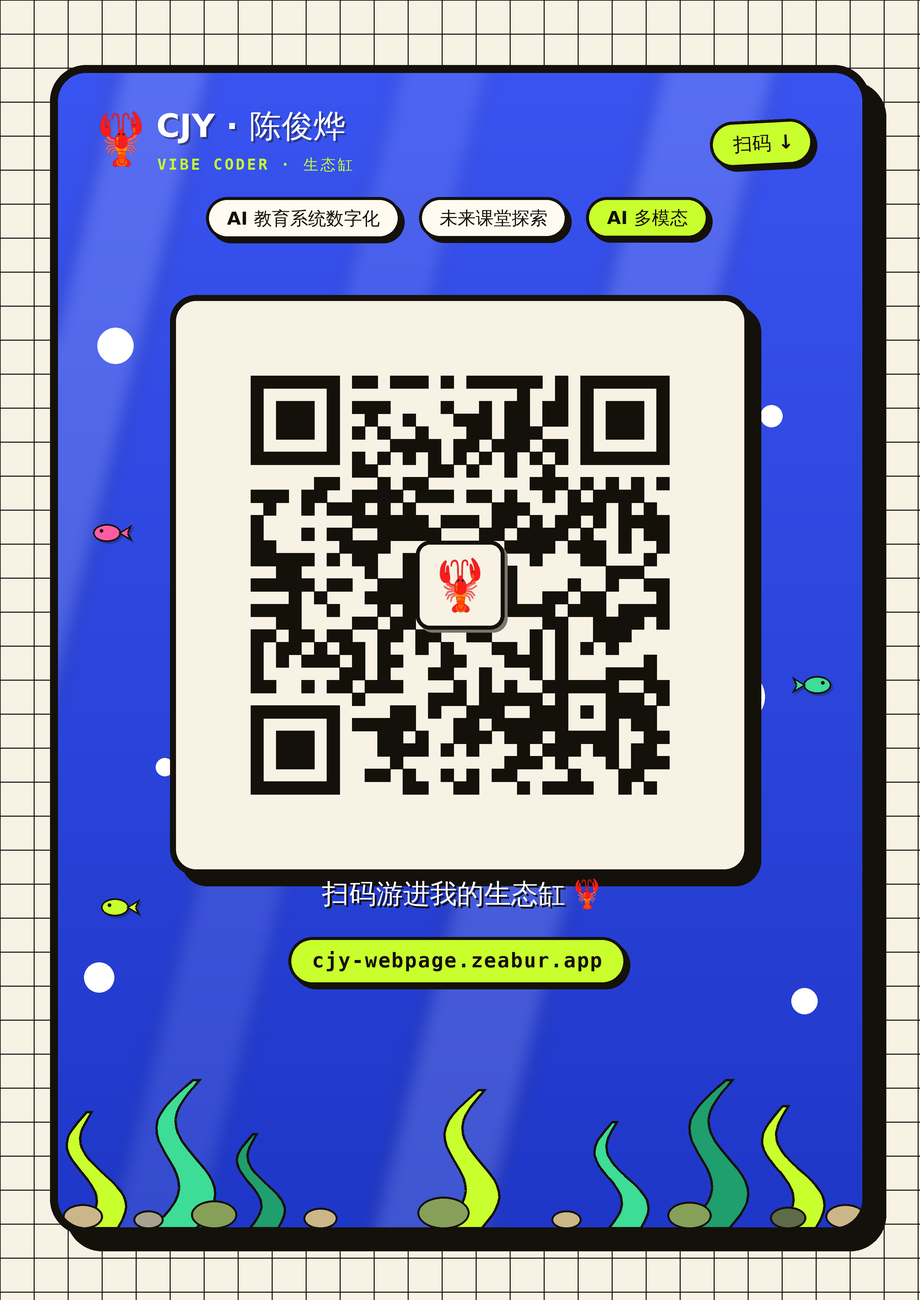
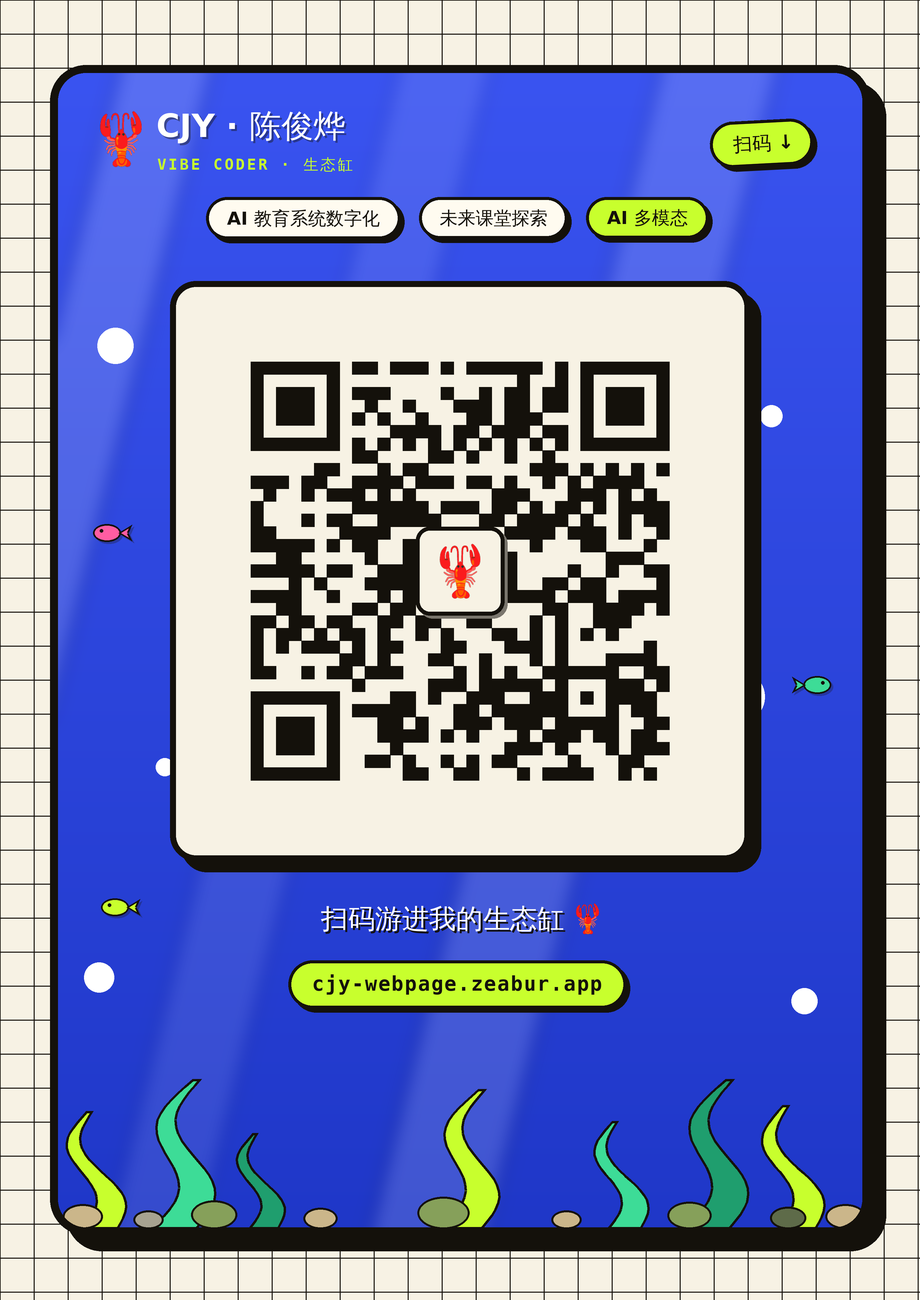
fix(qr): stack caption + URL below the QR panel with real gaps (no overlap)
caption() now reports its height; the caption and URL pill are positioned
relative to the panel's actual bottom (incl. drop shadow) with explicit
gaps, instead of fixed Y coords that collided with the panel shadow.

Changed region(s): [[0.2739, 0.2769, 0.7304, 0.6154], [0.1826, 0.6462, 0.8217, 0.8], [0.1826, 0.2154, 0.8217, 0.2462]]

diff --git a/tools/make_qr.py b/tools/make_qr.py
@@ -18,18 +18,21 @@ CW, CH = 820 * S, 1170 * S
 
 
 def caption(card, cx, y, text, emoji="🦞", fsize=27):
-    """Centered bold caption with a trailing colour emoji."""
+    """Centered bold caption with a trailing colour emoji. `y` is the text top;
+    returns the height occupied (text/emoji, whichever is taller) for stacking."""
     f = K.font(fsize * S)
     d = ImageDraw.Draw(card)
     bb = d.textbbox((0, 0), text, font=f)
-    tw = bb[2] - bb[0]
+    tw, th = bb[2] - bb[0], bb[3] - bb[1]
     em = K.emoji_img(emoji, fsize * 1.15 * S)
-    gap = 10 * S
+    gap = 12 * S
     total = tw + gap + em.width
     x = cx - total / 2
     d.text((x + 2 * S, y + 2 * S), text, font=f, fill=(INK[0], INK[1], INK[2], 100))
     d.text((x, y), text, font=f, fill=(255, 255, 255, 255))
-    K.paste(card, em, (x + tw + gap, y + (bb[3] - bb[1]) / 2 - em.height / 2 + bb[1]), "lt")
+    em_top = y + th / 2 - em.height / 2 + bb[1]
+    K.paste(card, em, (x + tw + gap, em_top), "lt")
+    return int(max(bb[3], em_top + em.height - y))
 
 
 def build():
@@ -48,12 +51,14 @@ def build():
 
     # QR glass panel
     rows, ver = K.qr_matrix(URL)
-    K.qr_panel(card, (CW / 2, 520 * S), 520 * S, rows, pad=30, knockout=0.20)
+    box = K.qr_panel(card, (CW / 2, 506 * S), 520 * S, rows, pad=30, knockout=0.20)
+    panel_bottom = box[3] + 11 * S          # include the panel's drop shadow
 
-    # caption + url
-    caption(card, CW / 2, 812 * S, "扫码游进我的生态缸")
+    # caption + url — stacked below the panel with guaranteed gaps (no overlap)
+    cap_y = panel_bottom + 30 * S
+    cap_h = caption(card, CW / 2, cap_y, "扫码游进我的生态缸")
     url = K.pill(DISPLAY, 20, INK, LIME, px=22, py=11, bw=3, mono=True, tracking=1.2)
-    K.paste(card, url, (CW / 2, 872 * S), "ct")
+    K.paste(card, url, (CW / 2, cap_y + cap_h + 26 * S), "ct")
 
     # planted floor
     K.seaweed(card, CH - 6 * S,
